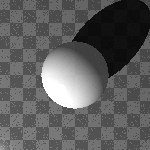
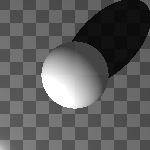
Fix the glass sphere checker nudge landing on a cell
The previous fix nudged the checker pattern by 0.01 in y, but this
scene's pattern cells are 0.005: the offset is exactly two cells, which
lands every point right back on a checker boundary. The render still
depended on which side of the boundary float noise fell, which macOS
reproduces deterministically but Linux resolves differently, so the
fixture kept failing on CI.

Use half a cell (0.0025) instead so every intersection point sits
safely inside a cell, and regenerate the fixture, whose checker phase
shifts by one cell.

diff --git a/tests/render_reflection_and_refraction_test.rs b/tests/render_reflection_and_refraction_test.rs
@@ -206,11 +206,13 @@ fn test_glass_sphere_scene() -> Result<(), std::io::Error> {
             patterns::Pattern::checkers(color::color(0.5, 0.5, 0.5), color::color(0.7, 0.7, 0.7));
         // The y translation nudges the pattern off the y=0 checker boundary; intersection
         // points on the plane straddle y=0 within float error, and which side they land on
-        // differs between platforms, which made this fixture fail on CI.
+        // differs between platforms, which made this fixture fail on CI. The offset must
+        // not be a whole number of checker cells (cells are 0.005 here), or it lands back
+        // on a boundary: half a cell puts every point safely inside one.
         pattern.set_transformation_matrix(
             matrix::Matrix4::IDENTITY
                 .scaling(0.005, 0.005, 0.005)
-                .translation(0.0, 0.01, 0.0),
+                .translation(0.0, 0.0025, 0.0),
         );
         material.pattern = Some(pattern);
         floor.material = material;